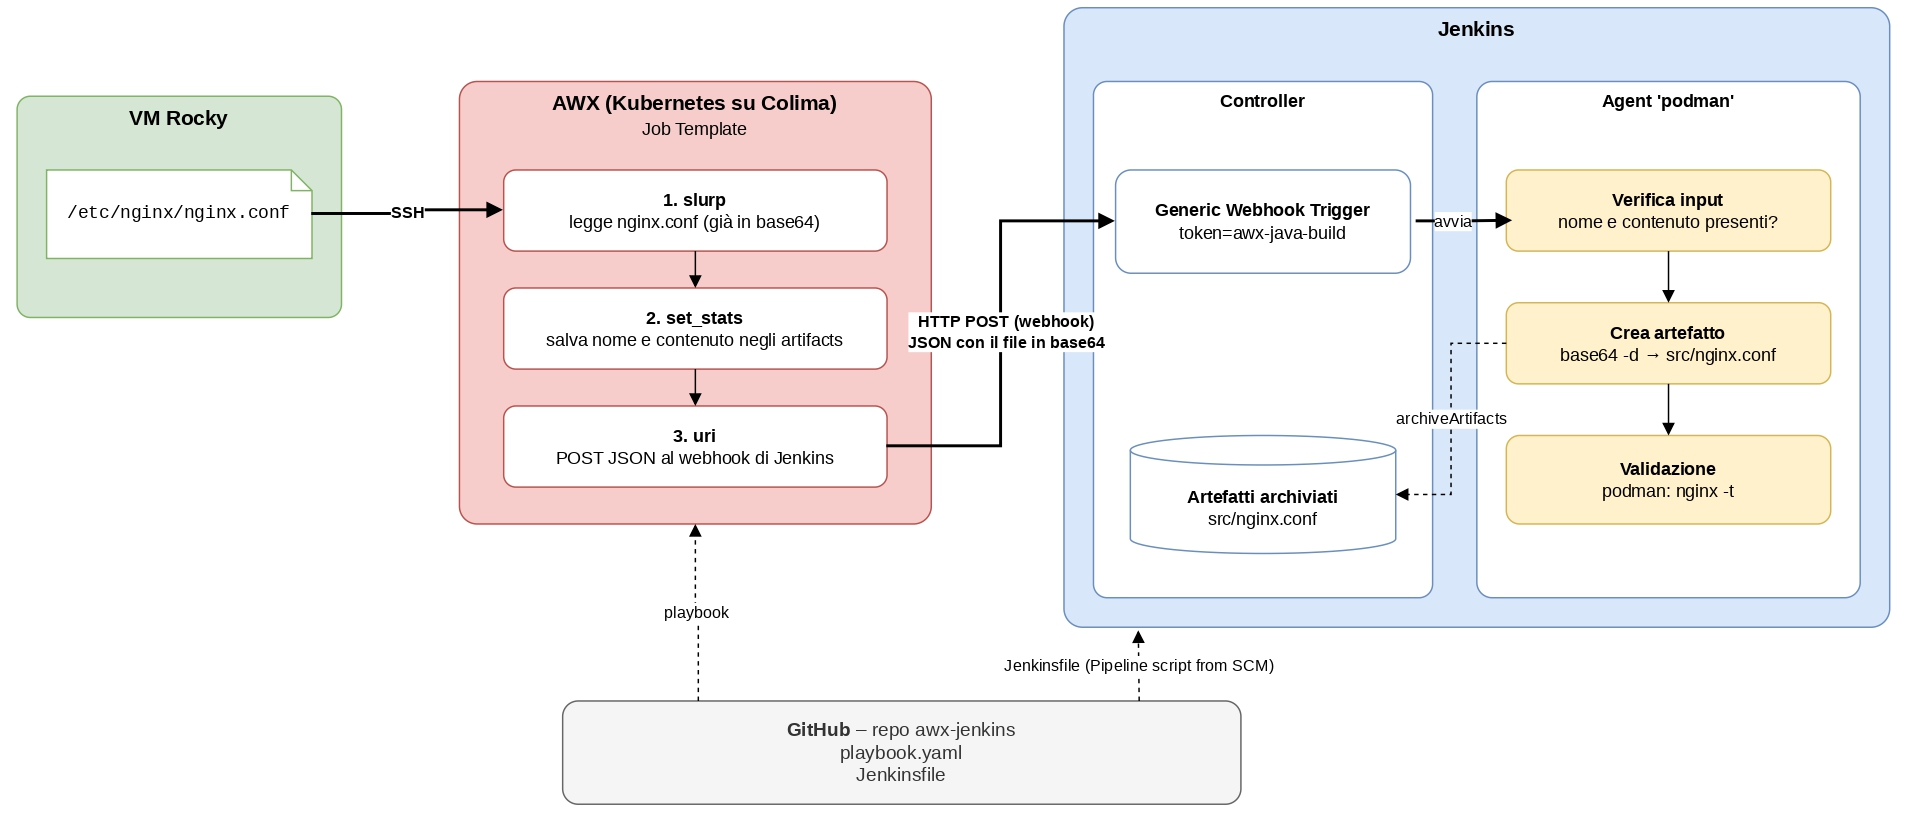
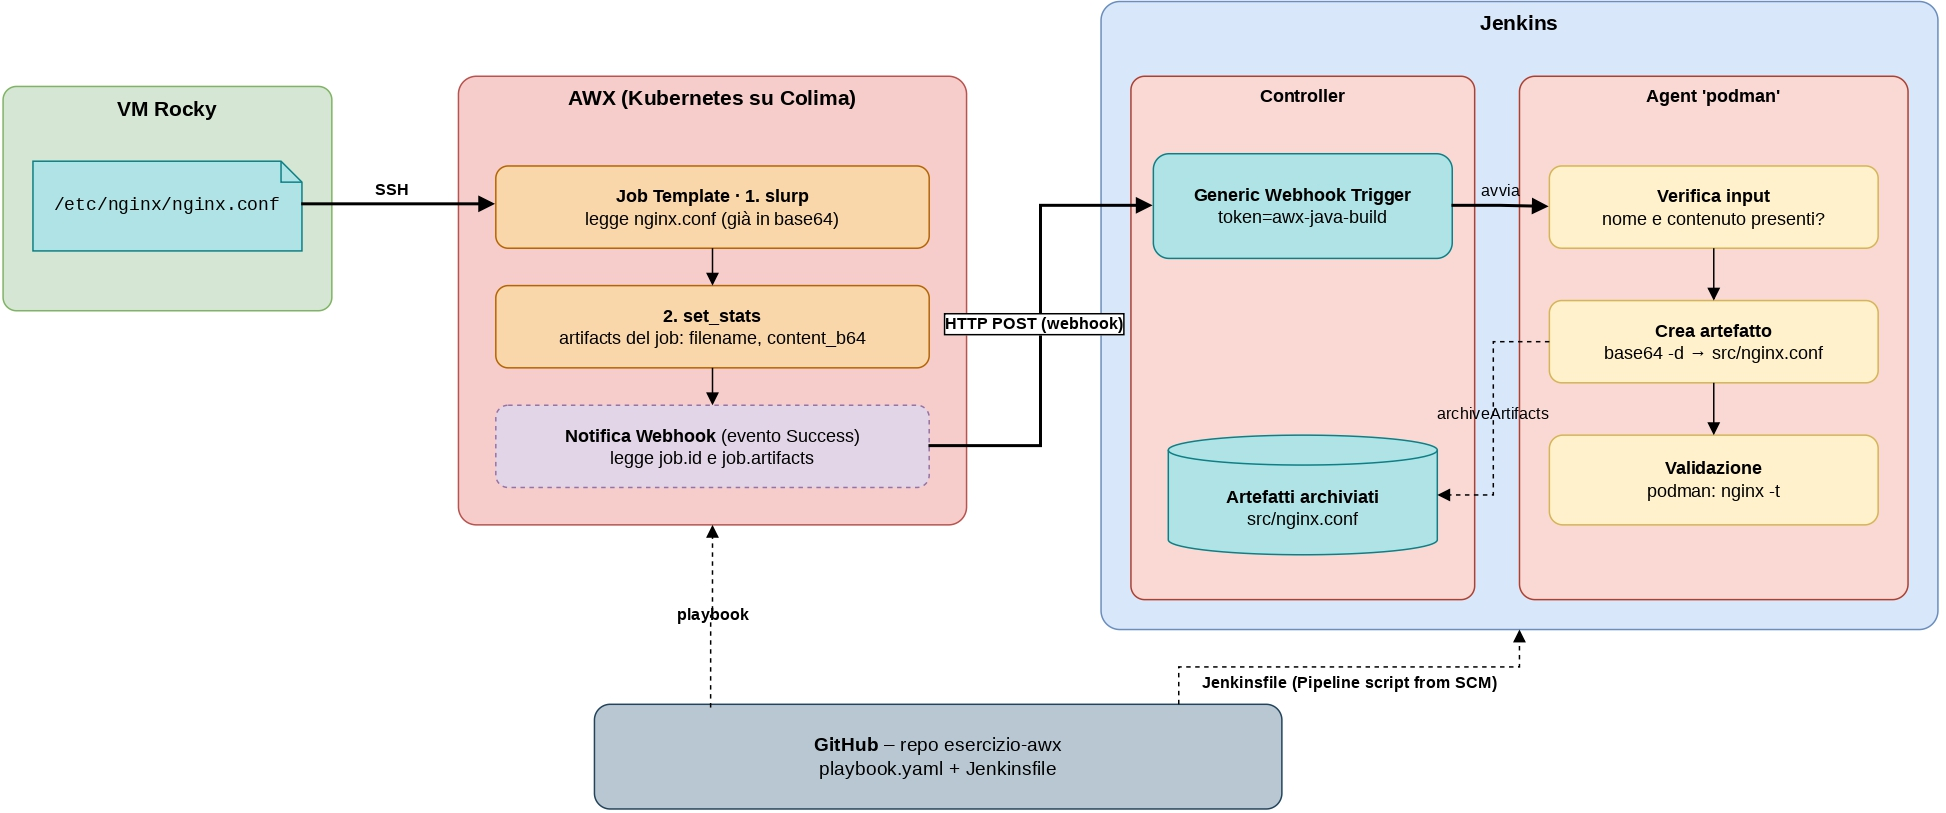
feat: aggiornato il readme con la nuova versione

diff --git a/README.md b/README.md
@@ -13,15 +13,28 @@ Costruire una catena automatizzata tra tre strumenti:
 
 ![Flusso dell'esercizio](img/jenkins-awx.jpg)
 
-AWX entra nella VM via SSH e legge `nginx.conf`. Il contenuto viene codificato in **base64** (così a capo e caratteri speciali non rompono il JSON) e inviato con un POST al webhook di Jenkins. Il controller Jenkins riconosce il token, scarica il `Jenkinsfile` da GitHub e fa eseguire la pipeline sull'agent: il file viene ricostruito, archiviato come artefatto e validato con `nginx -t` dentro un container nginx.
+AWX entra nella VM via SSH e legge `nginx.conf`. Il contenuto viene codificato in **base64** (così a capo e caratteri speciali non rompono il JSON) e salvato negli **artifacts** del job. A fine job, una **notifica Webhook** di AWX lo invia con un POST al webhook di Jenkins. Il controller Jenkins riconosce il token, scarica il `Jenkinsfile` da GitHub e fa eseguire la pipeline sull'agent: il file viene ricostruito, archiviato come artefatto e validato con `nginx -t` dentro un container nginx.
 
 ## Il playbook (`playbook.yaml`)
 
 | Task | Cosa fa |
 |---|---|
 | **Leggi il file** | `slurp` legge `nginx.conf` sulla VM e lo restituisce già in base64. A differenza di `fetch` non salva nulla sul disco del container AWX, che viene distrutto a fine job. |
-| **Salva negli artifacts** | `set_stats` lega nome e contenuto al job AWX: restano visibili nella pagina del job come traccia di cosa è stato prelevato. |
-| **Invia a Jenkins** | `uri` fa il POST al webhook con un JSON di tre campi. `body_format: json` costruisce il JSON e l'header. `delegate_to: localhost` fa partire la chiamata da AWX e non dalla VM. `status_code: 200` fa fallire il job se Jenkins non risponde correttamente. `awx_job_id` è iniettata da AWX in ogni job. |
+| **Salva negli artifacts** | `set_stats` (con `per_host: false`) salva nome e contenuto come artifacts del job (`filename`, `content_b64`). È l'unico modo per far sopravvivere il dato alla fine del job: la notifica viene generata dopo e può leggere solo i dati salvati sul job. |
+
+## Il webhook (Notification Template)
+
+Notifica di tipo **Webhook** associata al Job Template sull'evento **Success**:
+
+- **Target URL**: `http://<IP-JENKINS>:8080/generic-webhook-trigger/invoke?token=awx-java-build`
+- **HTTP Method**: `POST`, header `{"Content-Type": "application/json"}`
+- **Success message body**:
+
+```json
+{"awx_job_id": "{{ job.id }}", "filename": "{{ job.artifacts.filename | default('') }}", "content_b64": "{{ job.artifacts.content_b64 | default('') }}"}
+```
+
+Al momento dell'invio AWX sostituisce le variabili con i dati del job: `job.id` è il numero del job, `job.artifacts.*` sono i dati salvati da `set_stats`. I nomi a sinistra sono i campi letti dal Jenkinsfile (`$.filename`, `$.content_b64`).
 
 ## La pipeline (`Jenkinsfile`)
 
@@ -43,6 +56,7 @@ AWX entra nella VM via SSH e legge `nginx.conf`. Il contenuto viene codificato i
 - **Inventory** `vms`: un host, l'IP della VM.
 - **Project**: repo GitHub con playbook e Jenkinsfile
 - **Job Template**: project + `playbook.yaml` + inventory `vms` + credential `rocky-ssh`.
+- **Notification Template** di tipo *Webhook* verso Jenkins, attivata sul Job Template per l'evento **Success**.
 
 ### Jenkins
 - **Plugin**: *Generic Webhook Trigger*.
@@ -51,5 +65,5 @@ AWX entra nella VM via SSH e legge `nginx.conf`. Il contenuto viene codificato i
 
 ## Note
 
-- **Perché `uri` e non una notifica AWX.** AWX ha le notifiche di tipo *Webhook*, ma in questa versione (24.6.1) l'interfaccia non permette di salvare un messaggio che legga `job.artifacts`. La stessa chiamata HTTP è stata quindi spostata nel playbook.
+- **Perché `| default('')` nel body della notifica.** Su AWX l'interfaccia non permetteva di salvare un body che leggesse `job.artifacts.*`: al salvataggio il template viene verificato su un job di esempio senza artifacts, e il campo mancante blocca il modulo. Con `default('')` il controllo passa; all'invio reale gli artifacts esistono e vengono usati. Se mancassero, i campi arrivano vuoti e la pipeline si ferma in *Verifica input*.
 - **Sicurezza.** Il token è in chiaro per semplicità.
